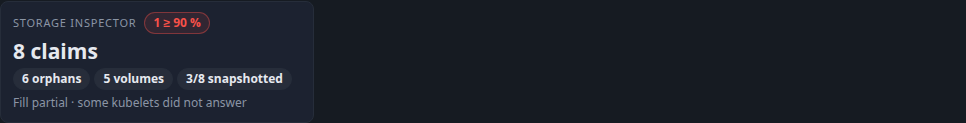
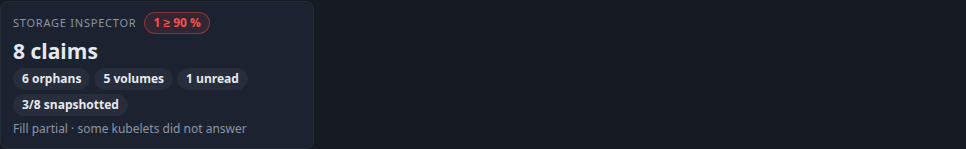
fix(storage): withhold ok while a claim is unread, and list a pod's claims by the mount rule
- The tile grades OK only once every mounted claim was measured, and says
  "N unread" while some are not; the >= 80 % filter draws its count as a
  floor ("0+") then, never a plain 0. counts.unread is the server's.
- The pod tab lists the claims the pod mounts under the rule the claims'
  Mount follows: an ephemeral volume's claim only when the pod owns it, so
  pod "web" no longer lists an unrelated "web-data".

Refs #90

diff --git a/web/app/extras/storage/Storage.tsx b/web/app/extras/storage/Storage.tsx
@@ -106,6 +106,8 @@ interface TileSpec {
   show: Show;
   label: string;
   count: number;
+  /** The count is a floor: claims it may hold were not read. */
+  floor?: boolean;
   tone: TileTone;
   hint: string;
 }
@@ -115,12 +117,20 @@ function tiles(data: Overview): TileSpec[] {
   const full = c.warn + c.bad;
   // No claim measured: how many are full is unknown, never 0.
   const known = fillKnown(data);
-  const unread = data.claims.filter((claim) => claim.fill.state === 'unread').length;
+  // Claims with no figure may be full: the count is then a floor, never a 0.
+  const unread = c.unread;
   const unsnapshotted = data.snapshots.state === 'read' ? c.claims - c.snapshotted : -1;
   return [
     { show: 'all', label: 'Claims', count: c.claims, tone: c.lost > 0 ? 'bad' : c.pending > 0 ? 'warn' : 'off', hint: `${String(c.bound)} bound · ${String(c.pending)} pending · ${String(c.lost)} lost` },
     { show: 'orphans', label: 'Orphans', count: c.orphans, tone: c.orphans > 0 ? 'warn' : 'off', hint: `${String(c.orphanClaims)} claims · ${String(c.orphanVolumes)} volumes (${String(c.retainedOrphans)} Retain) · ${String(c.orphanClasses)} classes` },
-    { show: 'full', label: '≥ 80 %', count: known ? full : -1, tone: c.bad > 0 ? 'bad' : full > 0 ? 'warn' : 'off', hint: `${String(c.bad)} at 90 % and over` },
+    {
+      show: 'full',
+      label: '≥ 80 %',
+      count: known ? full : -1,
+      floor: unread > 0,
+      tone: c.bad > 0 ? 'bad' : full > 0 ? 'warn' : 'off',
+      hint: unread > 0 ? `${String(c.bad)} at 90 % and over · ${String(unread)} unread` : `${String(c.bad)} at 90 % and over`,
+    },
     { show: 'unmeasured', label: 'Unread', count: unread, tone: unread > 0 ? 'warn' : 'off', hint: 'Mounted, and no kubelet figure' },
     { show: 'unsnapshotted', label: 'No snapshot', count: unsnapshotted, tone: 'off', hint: 'Claims with no VolumeSnapshot' },
     { show: 'volumes', label: 'Volumes', count: data.volumesRead.state === 'read' ? c.volumes : -1, tone: 'off', hint: 'PersistentVolumes' },
@@ -146,7 +156,7 @@ function Answer({ cluster, data, show, pick }: { cluster: string; data: Overview
               key={t.show}
               data-filter={t.show}
               data-count={String(t.count)}
-              count={t.count < 0 ? '–' : data.complete ? t.count : `${String(t.count)}+`}
+              count={t.count < 0 ? '–' : data.complete && t.floor !== true ? t.count : `${String(t.count)}+`}
               label={t.label}
               tone={t.tone}
               pressed={show === t.show}

diff --git a/web/app/extras/storage/Storage.test.tsx b/web/app/extras/storage/Storage.test.tsx
@@ -233,6 +233,23 @@ describe('the Overview tile', () => {
     expect(tile.badges).not.toContain(expect.stringContaining('snapshotted'));
   });
 
+  it('withholds OK while a mounted claim is unread, and says how many', async () => {
+    // One claim measured, seven unread, nothing orphaned or full.
+    const counts = { ...STORAGE_OVERVIEW.counts, orphans: 0, orphanClaims: 0, orphanVolumes: 0, orphanClasses: 0, warn: 0, bad: 0, measured: 1, shared: 0, unread: 7 };
+    const partly = { ...STORAGE_OVERVIEW, counts };
+    stub({ [ROUTE]: { body: partly } });
+    const tile = await storageTile('prod', new AbortController().signal);
+    expect(tile.status).toBeUndefined();
+    expect(tile.badges).toContain('7 unread');
+    cleanup();
+    stub({ [ROUTE]: { body: partly } });
+    mount();
+    await screen.findByRole('table');
+    const full = document.querySelector('[data-filter="full"]');
+    expect(full?.textContent).toContain('0+');
+    expect(full?.textContent).not.toMatch(/(^|[^0-9])0(?!\+)/);
+  });
+
   it('carries no grade when the kubelets answered and measured no claim', async () => {
     // A driver reporting no volume stats: the source read, every claim unread.
     const counts = { ...STORAGE_BARE.counts, orphans: 0, orphanClaims: 0, orphanVolumes: 0, orphanClasses: 0 };
@@ -240,7 +257,7 @@ describe('the Overview tile', () => {
     stub({ [ROUTE]: { body: answered } });
     const tile = await storageTile('prod', new AbortController().signal);
     expect(tile.status).toBeUndefined();
-    expect(tile.badges).toContain('fill unread');
+    expect(tile.badges).toContain('5 unread');
     cleanup();
     stub({ [ROUTE]: { body: answered } });
     mount();
@@ -253,6 +270,6 @@ describe('the Overview tile', () => {
     stub({ [ROUTE]: { body: { ...STORAGE_BARE, counts } } });
     const tile = await storageTile('prod', new AbortController().signal);
     expect(tile.status).toBeUndefined();
-    expect(tile.badges).toContain('fill unread');
+    expect(tile.badges).toContain('5 unread');
   });
 });

diff --git a/web/app/extras/storage/tile.ts b/web/app/extras/storage/tile.ts
@@ -8,7 +8,8 @@ import { fillKnown, getOverview, pageHref } from './data';
  * claim at 90 % and over, amber at 80 % or with an orphan, green only once
  * a claim was measured - with none measured (no kubelet read, the default
  * with nodes/proxy off, or kubelets reporting no volume stats) and no orphan
- * it carries no grade, and a `fill unread` badge.
+ * it carries no grade, and a `fill unread` badge; an `OK` also waits for every
+ * mounted claim to be measured, and `N unread` says how many are not.
  */
 export async function storageTile(cluster: string, signal: AbortSignal): Promise<ExtensionShortcutTarget> {
   const data = await getOverview(cluster, '', signal);
@@ -21,11 +22,12 @@ export async function storageTile(cluster: string, signal: AbortSignal): Promise
         ? { text: `${String(c.warn)} ≥ 80 %`, tone: 'warn' as const }
         : c.orphans > 0
           ? { text: `${String(c.orphans)} orphans`, tone: 'warn' as const }
-          : known
+          : known && c.unread === 0
             ? { text: 'OK', tone: 'ok' as const }
             : undefined;
   const badges = [`${String(c.orphans)} orphans`, `${String(c.volumes)} volumes`];
-  if (!known) badges.push('fill unread');
+  if (c.unread > 0) badges.push(`${String(c.unread)} unread`);
+  else if (!known) badges.push('fill unread');
   if (data.snapshots.state === 'read') badges.push(`${String(c.snapshotted)}/${String(c.claims)} snapshotted`);
   const tile: ExtensionShortcutTarget = {
     title: `${String(c.claims)} claims`,

diff --git a/web/measure/storageinspector.fixture.ts b/web/measure/storageinspector.fixture.ts
@@ -156,6 +156,7 @@ export const STORAGE_OVERVIEW: Overview = {
     retainedOrphans: 1,
     measured: 3,
     shared: 1,
+    unread: 1,
     warn: 1,
     bad: 1,
     snapshotted: 3,
@@ -203,7 +204,7 @@ export const STORAGE_BARE: Overview = {
     delete out.snapshot;
     return out;
   }),
-  counts: { ...STORAGE_OVERVIEW.counts, measured: 0, shared: 0, warn: 0, bad: 0, snapshotted: 0 },
+  counts: { ...STORAGE_OVERVIEW.counts, measured: 0, shared: 0, unread: 5, warn: 0, bad: 0, snapshotted: 0 },
   fill: {
     state: 'unreadable',
     asked: 4,

diff --git a/web/app/extras/storage/data.ts b/web/app/extras/storage/data.ts
@@ -120,6 +120,8 @@ export interface Counts {
   measured: number;
   /** Claims on a share: measured, with no percentage. */
   shared: number;
+  /** Mounted claims no kubelet gave a figure for. */
+  unread: number;
   warn: number;
   bad: number;
   snapshotted: number;

diff --git a/extras/storage/read.go b/extras/storage/read.go
@@ -92,7 +92,9 @@ type Counts struct {
 	RetainedOrphans int `json:"retainedOrphans"`
 	Measured        int `json:"measured"`
 	// Shared counts the claims on a share: measured, with no percentage.
-	Shared           int   `json:"shared"`
+	Shared int `json:"shared"`
+	// Unread counts the mounted claims no kubelet gave a figure for.
+	Unread           int   `json:"unread"`
 	Warn             int   `json:"warn"`
 	Bad              int   `json:"bad"`
 	Snapshotted      int   `json:"snapshotted"`
@@ -144,8 +146,12 @@ type set struct {
 // reading is one read's whole result, the parts the tabs need beside the
 // answer.
 type reading struct {
-	answer  Answer
-	pods    map[string]podInfo // by namespace/name; nil when not read
+	answer Answer
+	pods   map[string]podInfo // by namespace/name; nil when not read
+	// mounts are the claims each pod mounts, by namespace/name of the pod,
+	// under the same rule as the claims' Mount: an ephemeral volume's claim
+	// only when the pod owns it.
+	mounts  map[string][]string
 	history map[string][]Snapshot
 }
 
@@ -289,6 +295,7 @@ func read(r *http.Request, h extension.Host, cluster, ns string, at time.Time) (
 	// The pods, for who mounts what. Kept small: only what this page reads.
 	pods, mountsKnown := readPods(r, h, cluster, ns, a, incomplete)
 	out.pods = pods
+	out.mounts = map[string][]string{}
 	mounting := map[string][]podInfo{}
 	for _, p := range pods {
 		for _, c := range p.claims {
@@ -300,6 +307,7 @@ func read(r *http.Request, h extension.Host, cluster, ns string, at time.Time) (
 				continue
 			}
 			mounting[key] = append(mounting[key], p)
+			out.mounts[p.namespace+"/"+p.name] = append(out.mounts[p.namespace+"/"+p.name], c)
 		}
 	}
 	sets, setsKnown := readSets(r, h, cluster, ns, incomplete)
@@ -393,6 +401,9 @@ func tally(a *Answer, claims []Claim, volumes []Volume, classes []Class) {
 		}
 		if c.Fill.State == FillShared {
 			n.Shared++
+		}
+		if c.Fill.State == FillUnread {
+			n.Unread++
 		}
 		if c.Fill.State == FillMeasured {
 			n.Measured++

diff --git a/extras/storage/storage_test.go b/extras/storage/storage_test.go
@@ -162,6 +162,9 @@ func TestTheThresholdsGradeAt80And90(t *testing.T) {
 	if warm := claimNamed(t, a, "shop", "cache"); warm.Fill.Level != LevelWarn {
 		t.Errorf("the claim at 85%% = %+v, want warn", warm.Fill)
 	}
+	if a.Counts.Unread != 0 {
+		t.Errorf("unread = %d, want 0: both mounted claims were measured", a.Counts.Unread)
+	}
 	if a.Counts.Bad != 1 || a.Counts.Warn != 1 || a.Counts.Measured != 2 {
 		t.Errorf("counts = %+v, want one bad, one warn, two measured", a.Counts)
 	}
@@ -219,6 +222,9 @@ func TestUnreadableStatsAreSaidAndNeverDrawnAsZero(t *testing.T) {
 				if claim.Fill.Percent != 0 || claim.Fill.Level != "" {
 					t.Errorf("%s carries a figure it was never given: %+v", claim.Name, claim.Fill)
 				}
+			}
+			if c.state == SourceUnreadable && a.Counts.Unread != 2 {
+				t.Errorf("unread = %d, want the 2 mounted claims", a.Counts.Unread)
 			}
 			cache := claimNamed(t, a, "shop", "cache")
 			if cache.Fill.State != FillUnread {
@@ -480,6 +486,22 @@ func TestAnEphemeralVolumesClaimIsMountedByItsPod(t *testing.T) {
 		if c := claimNamed(t, a, "shop", name); c.Mount != MountUnmounted || c.Orphan != OrphanUnmounted {
 			t.Errorf("%s = mount %q orphan %q pods %v, want an unmounted orphan", name, c.Mount, c.Orphan, c.Pods)
 		}
+	}
+
+	// The pod tab follows the same rule: job-x lists the claim it owns, and
+	// neither web nor job-x lists a claim that only shares a name.
+	names := func(p PodAnswer) []string {
+		var out []string
+		for _, c := range p.Claims {
+			out = append(out, c.Name)
+		}
+		return out
+	}
+	if got := names(decode[PodAnswer](t, serve(t, h, "/x/prod/storage/pod/shop/job-x"))); len(got) != 1 || got[0] != "job-x-scratch" {
+		t.Errorf("job-x's tab lists %v, want [job-x-scratch]", got)
+	}
+	if got := names(decode[PodAnswer](t, serve(t, h, "/x/prod/storage/pod/shop/web"))); len(got) != 0 {
+		t.Errorf("web's tab lists %v, want nothing: web-data is not its claim", got)
 	}
 }
 

diff --git a/extras/storage/routes.go b/extras/storage/routes.go
@@ -148,9 +148,10 @@ func podHandler(h extension.Host) http.Handler {
 			writeProblem(w, status, code, "The pods could not be read.", errors.New(sec.Detail))
 			return
 		}
-		pod, found := got.pods[ns+"/"+name]
-		if found {
-			for _, claim := range pod.claims {
+		// The claims this pod mounts, by the rule the claims' Mount follows: a
+		// claim that only shares an ephemeral volume's name is not the pod's.
+		if _, found := got.pods[ns+"/"+name]; found {
+			for _, claim := range got.mounts[ns+"/"+name] {
 				for _, c := range a.Claims {
 					if c.Namespace == ns && c.Name == claim {
 						out.Claims = append(out.Claims, c)
